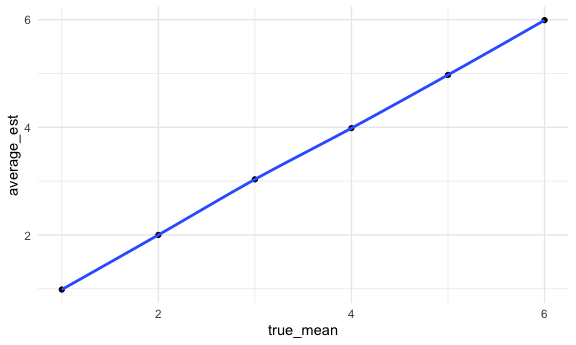
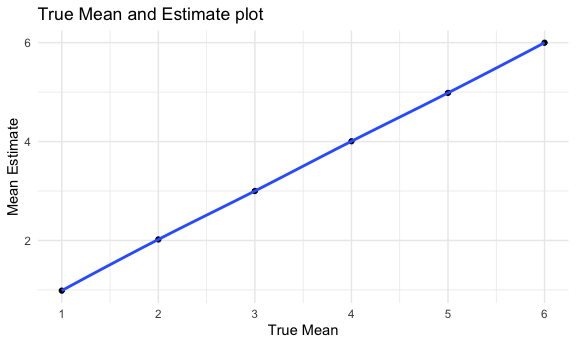
problem 2 plot errorbar fixed, plots titles, labels added

diff --git a/p8105_hw5_mff2137.md b/p8105_hw5_mff2137.md
@@ -207,15 +207,26 @@ on the upper and lower limits.
 ``` r
 estimates_cl_plot <-
   homicide_prop_df%>%
-  mutate (estimate = factor(estimate)) %>%
-  ggplot(aes(x=city_state, y=estimate)) + 
-    geom_bar(position=position_dodge(), stat="identity") +
-    geom_errorbar(aes(ymin=estimate-conf.low, ymax=estimate+conf.high),
-                  width=.2,                    
-                  position=position_dodge(.9))
+  janitor::clean_names() %>% 
+  mutate(city_state = fct_reorder(city_state, estimate)) %>%
+  ggplot(aes(x = city_state, y = estimate)) + 
+    geom_col(fill = NA, color = "black")  +
+    geom_errorbar(aes(ymin = estimate - conf_low, ymax = estimate + conf_high), 
+                  width = 0.2) +
+  labs(
+        title = "Homicides Esimates Across US Cities",
+        x = "City",
+        y = "prop.test Estimates") + 
+   theme(axis.text.x = element_text(angle = 90, vjust = 0.5, hjust=1))
+
+estimates_cl_plot
 ```
 
+<img src="p8105_hw5_mff2137_files/figure-gfm/unnamed-chunk-9-1.png" width="90%" />
+
 ## Problem 3
+
+### The Simulation Function
 
 This step conducts a simulation to explore power in a one-sample t-test.
 The code generates 5000 datasets by iteration for the model, using a
@@ -248,19 +259,21 @@ sim_results_df
     ## # A tibble: 30,000 × 11
     ##    sample_size true_mean itera…¹ estim…² stati…³ p.value param…⁴ conf.…⁵ conf.…⁶
     ##          <dbl>     <dbl>   <int>   <dbl>   <dbl>   <dbl>   <dbl>   <dbl>   <dbl>
-    ##  1          30         1       1   2.47    2.39   0.0234      29  0.359    4.57 
-    ##  2          30         1       2   0.765   0.924  0.363       29 -0.929    2.46 
-    ##  3          30         1       3   0.535   0.670  0.508       29 -1.10     2.17 
-    ##  4          30         1       4  -0.736  -0.897  0.377       29 -2.42     0.943
-    ##  5          30         1       5   1.28    1.56   0.131       29 -0.403    2.96 
-    ##  6          30         1       6  -0.393  -0.478  0.636       29 -2.07     1.29 
-    ##  7          30         1       7   1.50    1.92   0.0654      29 -0.102    3.10 
-    ##  8          30         1       8   0.736   0.886  0.383       29 -0.962    2.43 
-    ##  9          30         1       9   0.665   0.700  0.489       29 -1.28     2.61 
-    ## 10          30         1      10   1.70    2.15   0.0404      29  0.0796   3.33 
+    ##  1          30         1       1   1.98    2.36  2.50e-2      29  0.267     3.70
+    ##  2          30         1       2   1.16    1.31  2.01e-1      29 -0.653     2.97
+    ##  3          30         1       3   1.47    1.42  1.67e-1      29 -0.652     3.59
+    ##  4          30         1       4   0.149   0.188 8.52e-1      29 -1.47      1.77
+    ##  5          30         1       5   1.55    2.13  4.20e-2      29  0.0601    3.03
+    ##  6          30         1       6   2.68    2.84  8.20e-3      29  0.749     4.61
+    ##  7          30         1       7   4.35    4.17  2.52e-4      29  2.22      6.49
+    ##  8          30         1       8   1.39    1.35  1.87e-1      29 -0.713     3.49
+    ##  9          30         1       9   1.83    2.12  4.27e-2      29  0.0638    3.59
+    ## 10          30         1      10  -0.160  -0.161 8.73e-1      29 -2.20      1.88
     ## # … with 29,990 more rows, 2 more variables: method <chr>, alternative <chr>,
     ## #   and abbreviated variable names ¹iteration, ²estimate, ³statistic,
     ## #   ⁴parameter, ⁵conf.low, ⁶conf.high
+
+### Power and Effect Plots
 
 This code chunk creates a plot showing the proportion of times the null
 was rejected (the power of the test) on the y axis and the true value of
@@ -288,7 +301,13 @@ prop_df_plot<-
   mutate(power = reject/total) %>% 
   ggplot(aes(x = true_mean, y = power )) +
   geom_point() +
-  geom_smooth(se =FALSE)
+  geom_smooth(se =FALSE)+
+  labs(
+        title = "Power plot",
+        x = "Mean",
+        y = "Power") +
+  scale_x_continuous(
+        breaks = seq(0, 6, by = 1)) 
 ```
 
     ## Joining, by = "true_mean"
@@ -319,7 +338,13 @@ mean_est_plot <-
     average_est = mean(estimate)) %>% 
   ggplot(aes(x = true_mean, y = average_est)) +
   geom_point() +
-  geom_smooth(se =FALSE)
+  geom_smooth(se =FALSE) +
+  labs(
+        title = "True Mean and Estimate plot",
+        x = "True Mean",
+        y = "Mean Estimate") +
+  scale_x_continuous(
+        breaks = seq(0, 6, by = 1))
 
 mean_est_plot
 ```
@@ -339,7 +364,13 @@ mean_rej_plot <-
     average_est = mean(estimate)) %>% 
   ggplot(aes(x = true_mean, y = average_est)) +
   geom_point()+
-  geom_smooth(se =FALSE)
+  geom_smooth(se =FALSE) +
+  labs(
+        title = "Rejected Null plot",
+        x = "True Mean",
+        y = "Mean Estimate") +
+  scale_x_continuous(
+        breaks = seq(0, 6, by = 1))
 
 mean_rej_plot
 ```
